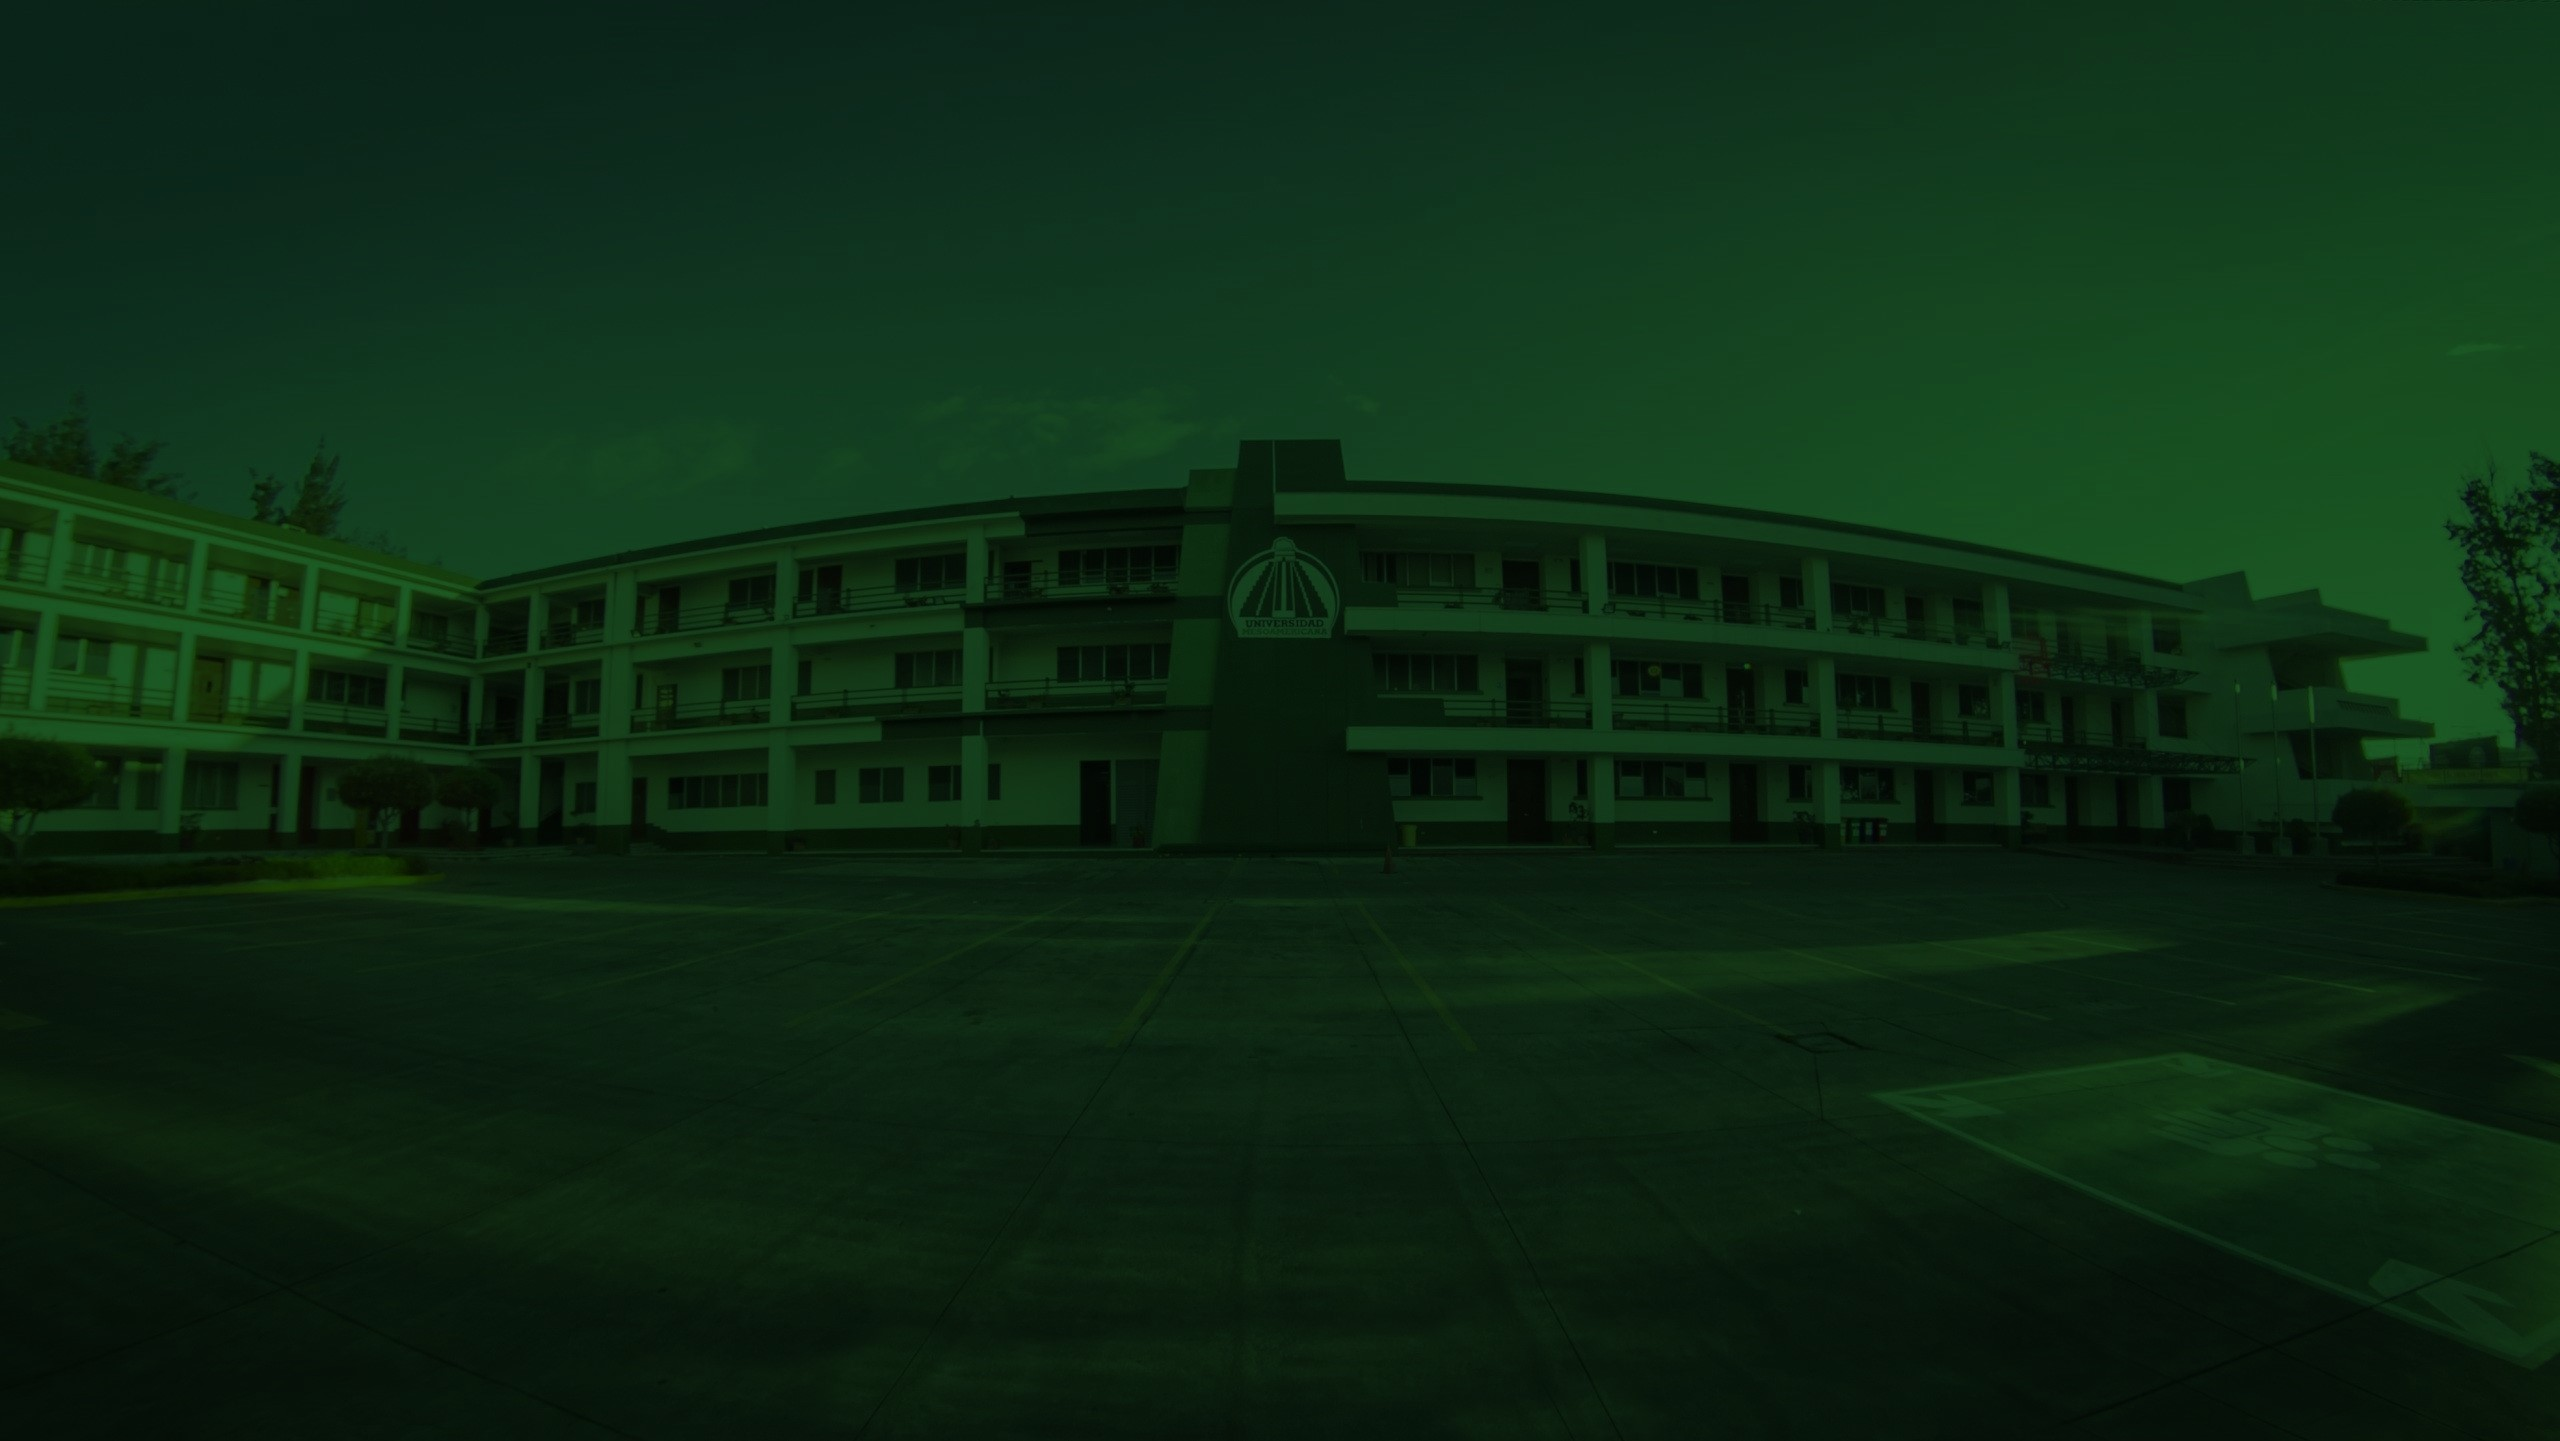
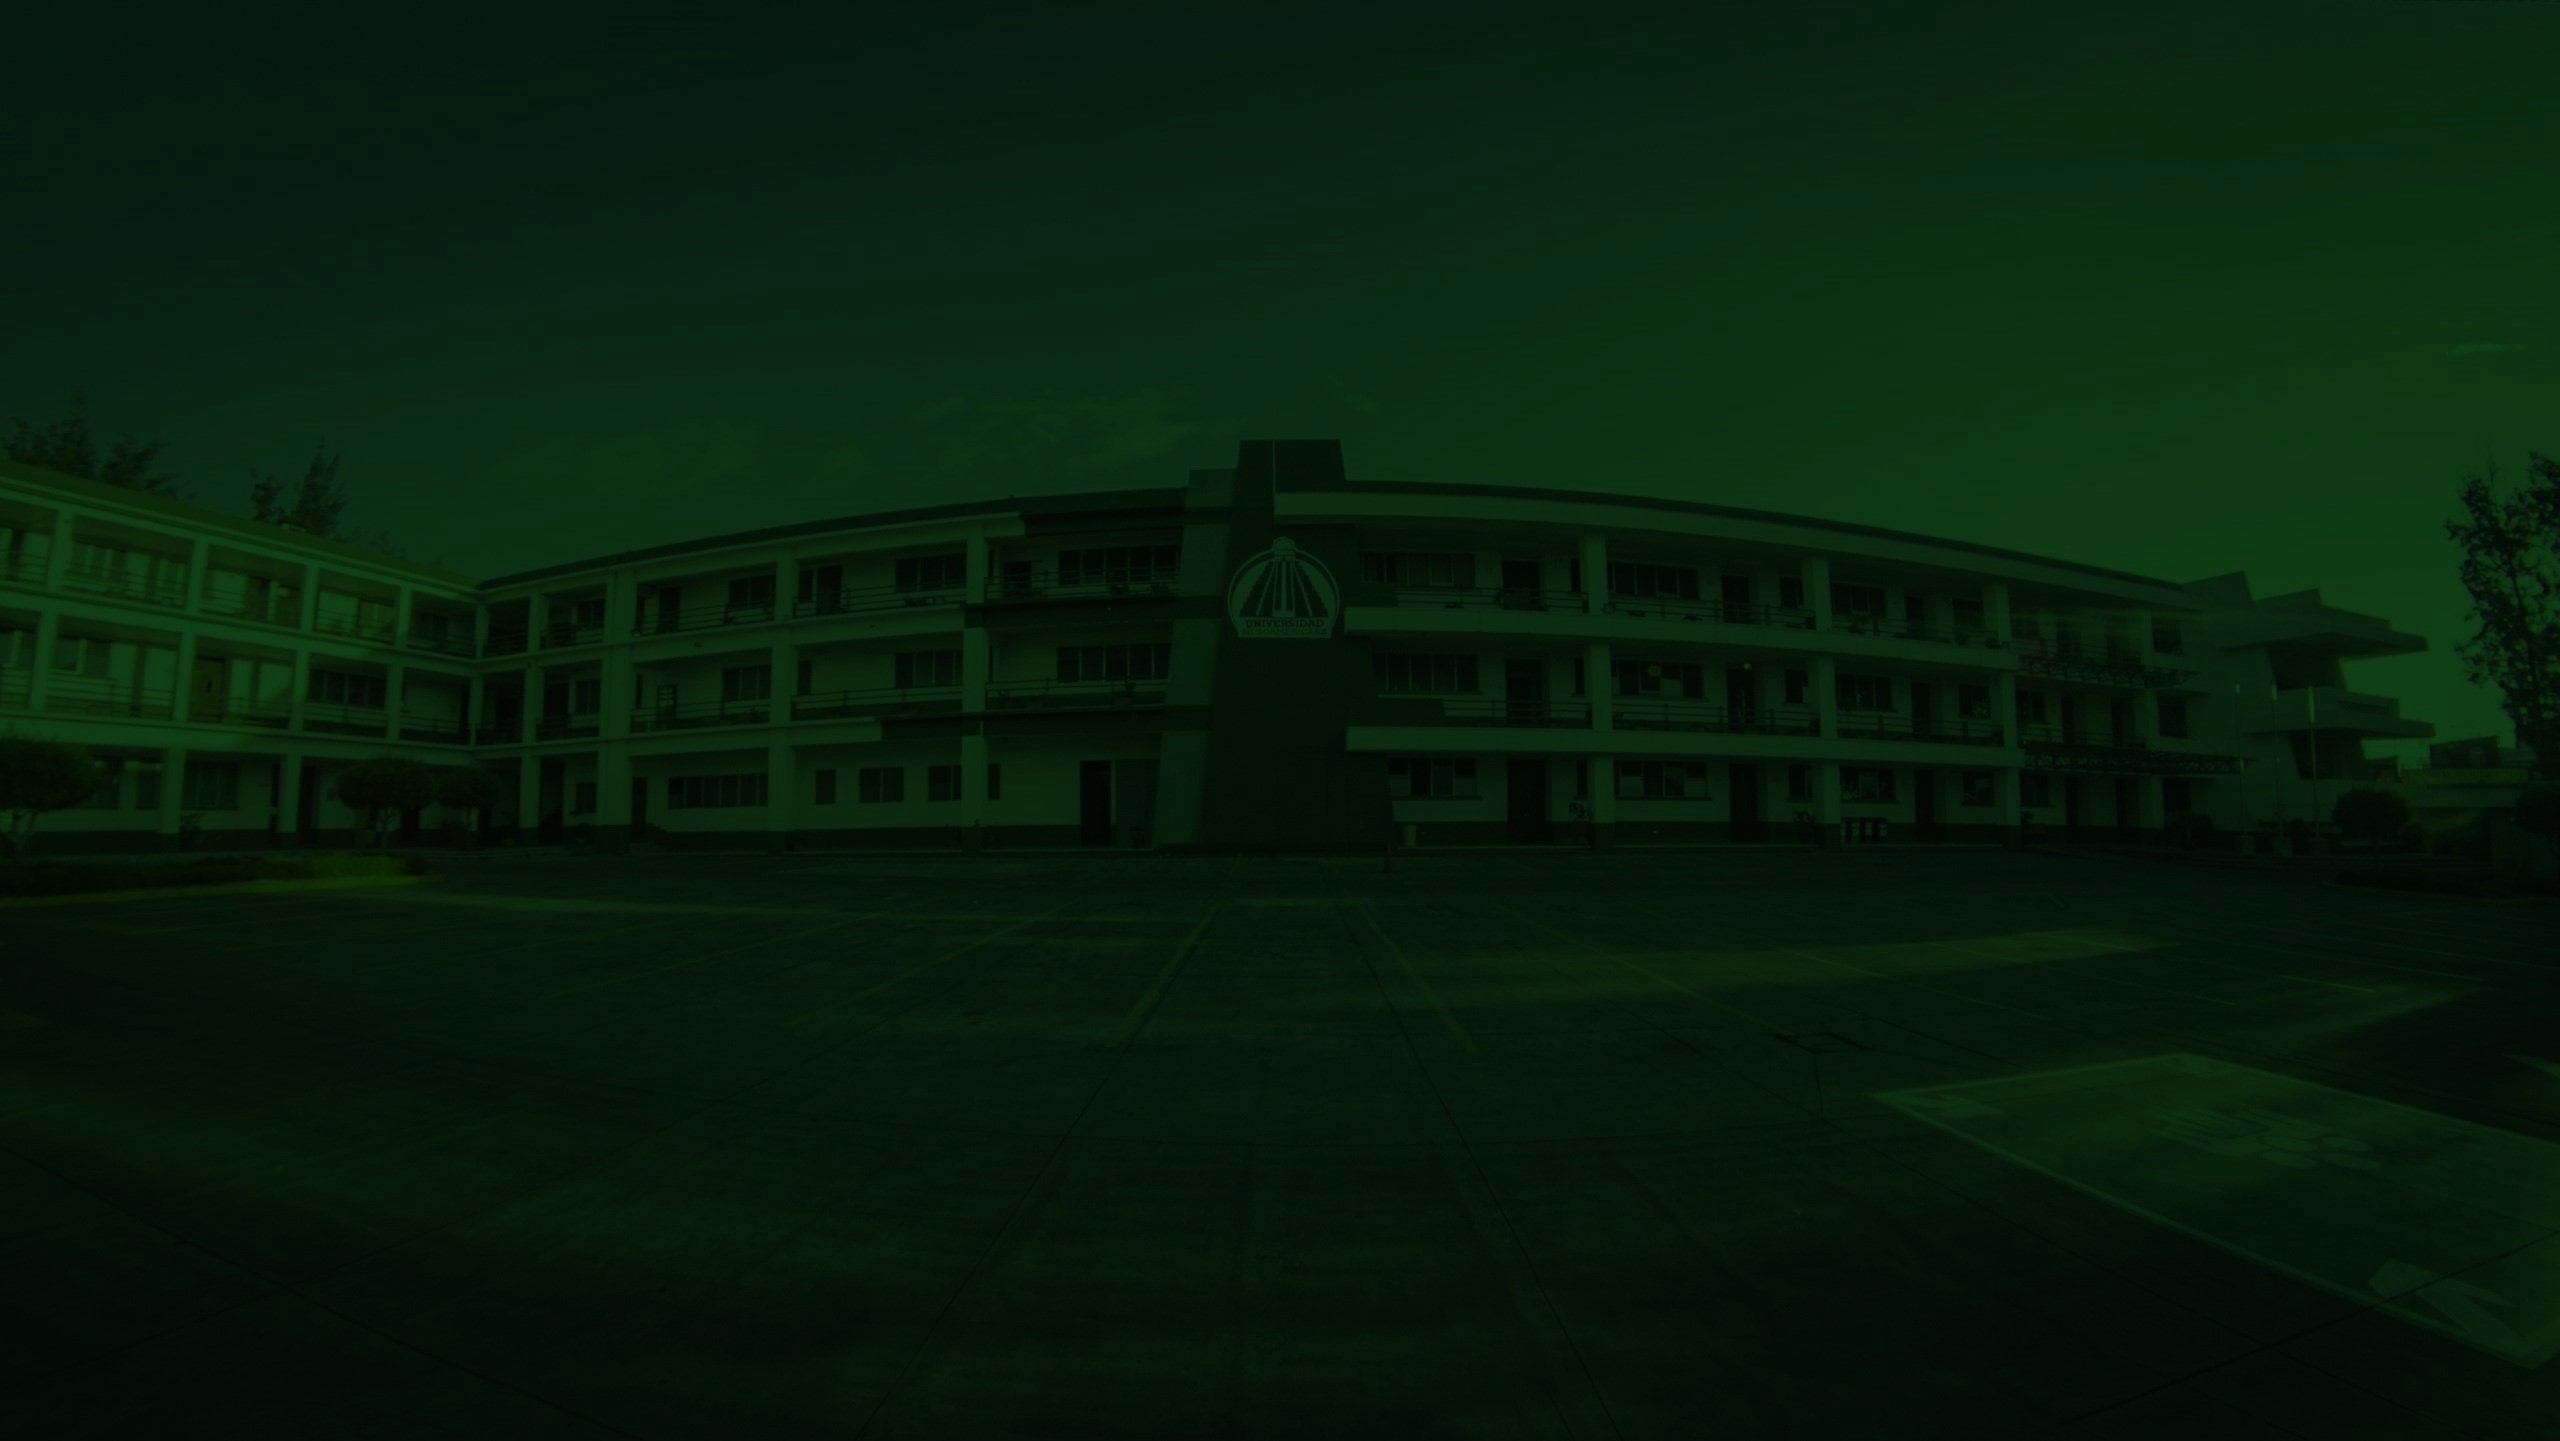
Parallax effect de página principal agregado

Changed region(s): [[0.0, 0.3435, 0.1875, 0.5309], [0.8125, 0.3435, 1.0, 0.5309]]

diff --git a/grid/index.html b/grid/index.html
@@ -222,7 +222,7 @@
         </div>
 
 
-        <div class="custom-bk-image">
+        <div class="parallax">
           <div class="row">
             <div class="custom-cnc-margin">
 
@@ -271,6 +271,42 @@
             </div>
           </div>
         </div>
+
+        <br>
+        <br>
+        <br>
+        <br>
+        <br>
+        <br>
+        <br>
+        <br>
+        <br>
+        <br>
+        <br>
+        <br>
+        <br>
+        <br>
+        <br>
+        <br>
+        <br>
+        <br>
+        <br>
+        <br>
+        <br>
+        <br>
+        <br>
+        <br>
+        <br>
+        <br>
+        <br>
+        <br>
+        <br>
+        <br>
+        <br>
+        <br>
+        <br>
+        <br>
+        <br>
       </main>
 
       <footer>

diff --git a/css/styles.css b/css/styles.css
@@ -169,11 +169,6 @@ input[type="text"] {
     margin-right: 30px;
 }
 
-.custom-bk-image {
-    margin-top:100px;
-    background-image: url(/assets/images/fondoMeso.jpg);
-}
-
 .custom-cnc-p {
     color:white;
     text-align: center;
@@ -186,4 +181,15 @@ input[type="text"] {
 
 .custom-cnc-margin.two {
     margin-top: 50px;
+}
+
+.parallax {
+    margin-top:100px;
+    background-image:url(/assets/images/fondoMeso.jpg);
+    height:100%;
+
+    background-attachment: fixed;
+    background-position: center;
+    background-repeat: no-repeat;
+    background-size: cover;
 }
